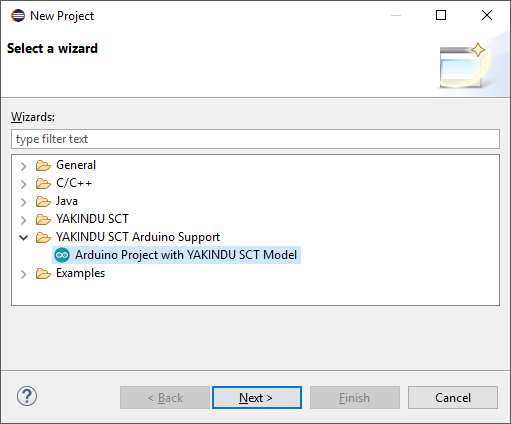
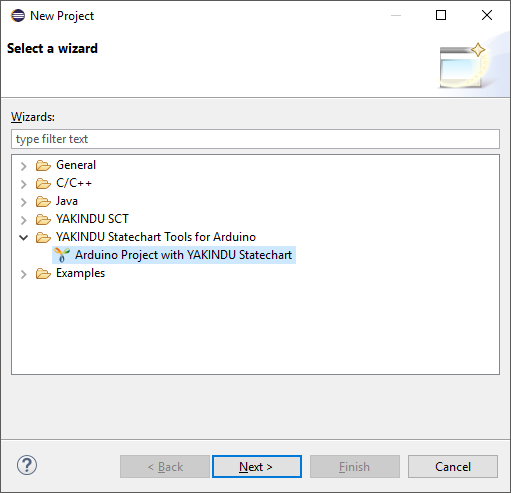
New screenshots, new help page.

diff --git a/plugins/org.yakindu.sct.arduino.help/md/Installation.md b/plugins/org.yakindu.sct.arduino.help/md/Installation.md
@@ -1,20 +1,19 @@
 # Installation
 
-First you need to download the [Eclipse Installer](https://www.eclipse.org/downloads/). Start it and switch to the advanced mode.
+First you need to download the [YAKINDU Statechart Tools](https://www.statecharts.org/). Unzip the archive to an arbitrary directory and start SCT. Choose "Install New Software..." from the "Help" menu.
 
-![Installer - Switch to Advanced Mode](screenshots/Installer_AdvancedMode.png)
+![Install New Software](screenshots/InstallNewSoftware.png)
 
-In the advanced mode click the "+" button in the upper right corner to add a user product. Copy and paste the URL of the YAKINDU Statechart Tools for Arduino IDE setup to the dialog:
-https://raw.githubusercontent.com/wendehals/arduino_sct_tools/master/build/org.yakindu.sct.arduino.ide.setup/SCTArduinoIDE.setup
+Select the "Add..." button in the upper right corner to add a new update site. Copy the following URL to the "Location" text field: [https://wendehals.github.io/arduino\_sct\_tools/releases/](https://wendehals.github.io/arduino_sct_tools/releases/). Use any value for the "Name" field and select "OK".
 
-![Installer - Add the YAKINDU Statechart Tools for Arduino IDE setup to the user products](screenshots/Installer_AddUserProduct.png)
+![Add Repository](screenshots/AddRepository.png)
 
 Select YAKINDU Statechart Tools for Arduino and press the "Next>" button to switch to the next page.  
 
-![Installer - YAKINDU Statechart Tools for Arduino IDE](screenshots/Installer_UserProductSetup.png)
+![Install YAKINDU SCT for Arduino](screenshots/InstallSCTforArduino.png)
 
-Just click "Next>" on the Projects page. On the Variables page choose an Installation folder name and the Root install folder and press "Next>". Just confirm the last page by clicking "Finish" on the last page. 
+ 
 
 ![Installer - Variables](screenshots/Installer_Variables.png)
 
-The installation will start immediately. The installed IDE will start automatically, you just need to enter and confirm the workspace path.
+

diff --git a/plugins/org.yakindu.sct.arduino.help/md/ProjectSetup.md b/plugins/org.yakindu.sct.arduino.help/md/ProjectSetup.md
@@ -1,6 +1,6 @@
 # Arduino SCT Project Setup
 
-To start programming your Arduino, you need to create a project. After closing the Welcome page open the context menu of the Project Explorer view in the upper left corner of the Eclipse Window. Select "New">"Project...".
+To start programming your Arduino, you need to create a project. After closing the Welcome page open the context menu of the Project Explorer view in the upper left corner of the Eclipse Window and select "New">"Project...".
 
 ![New Project](screenshots/NewProjectContextMenu.png)
 

diff --git a/plugins/org.yakindu.sct.arduino.help/md/CreatingExamples.md b/plugins/org.yakindu.sct.arduino.help/md/CreatingExamples.md
@@ -1,0 +1,3 @@
+# Creating an Example Project
+
+There are also example projects shipped with YAKINDU Statechart Tools for Arduino. To create an example project open the context menu of the Project Explorer view in the upper left corner of the Eclipse Window and select "New">"Project...". In the wizard select the 
